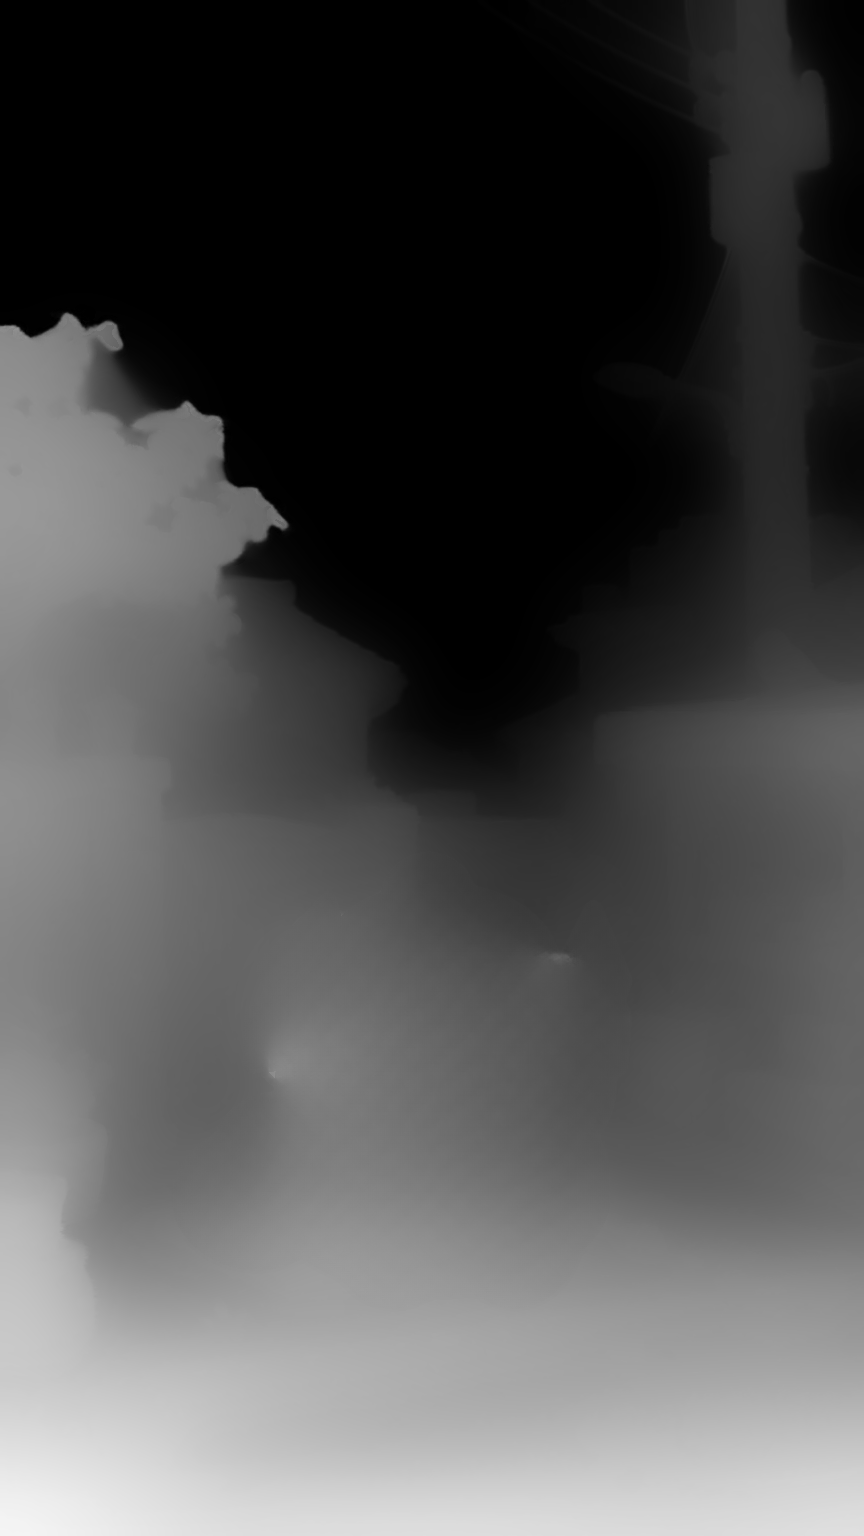
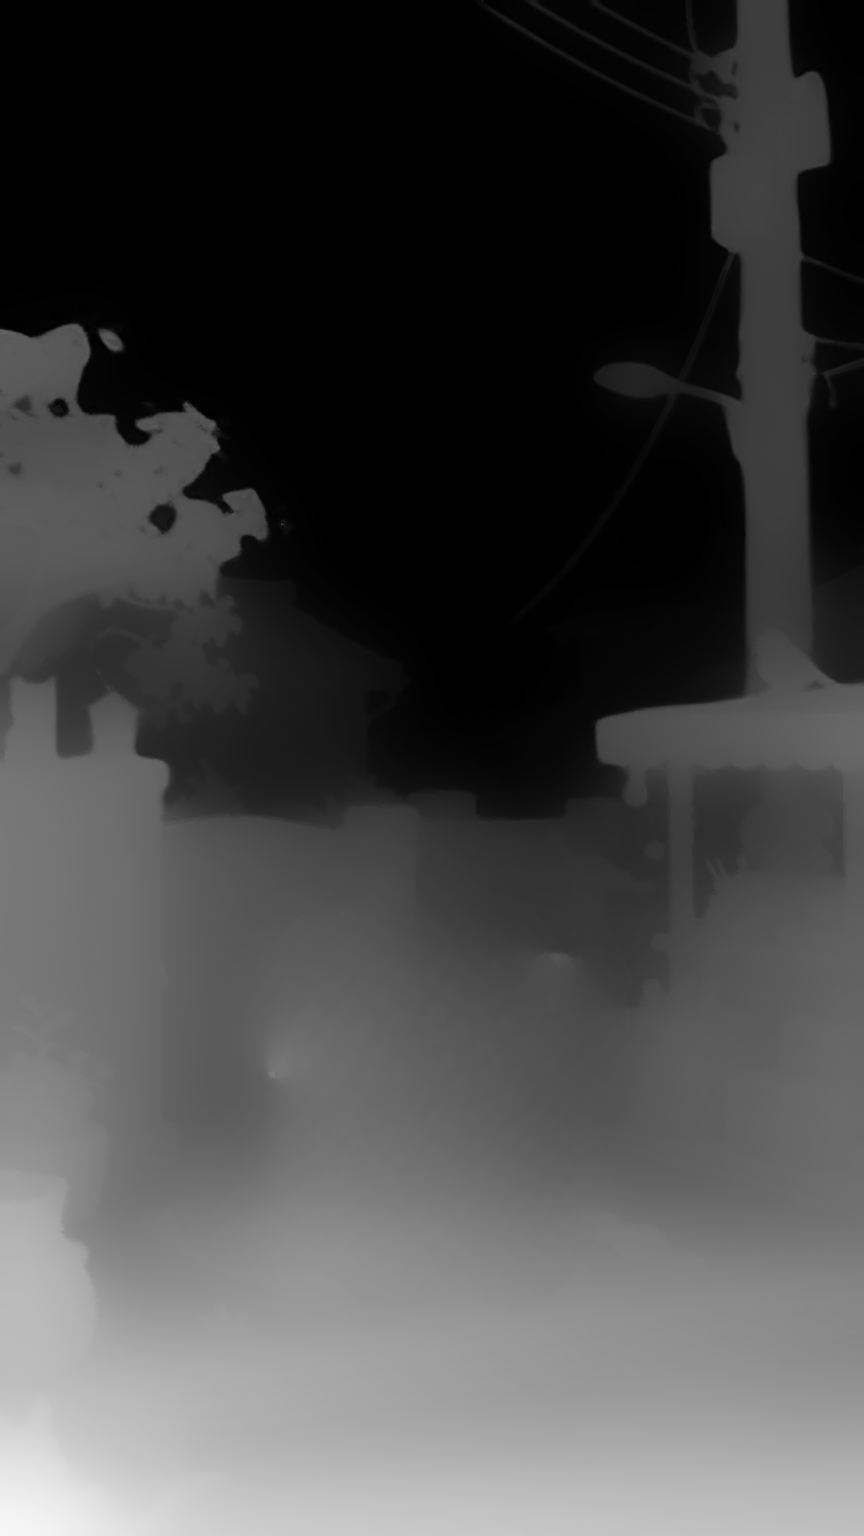
lab1: upgrade depth to Depth Anything V2 Large (fp16)
Base depth rendered the scooter/stall as a blurry blob (-> warp, no separation) and
merged the power lines. Large resolves them: crisp wire lines, real object structure,
accurate midground. Rebuild lab1 on Large depth -> the scooter now translates rigidly
and layers separate cleanly. make_scene.sh switched to Large for all new scenes.

diff --git a/index.html b/index.html
@@ -11,7 +11,7 @@
     <meta name="apple-mobile-web-app-title" content="Cat Lock" />
     <meta name="apple-mobile-web-app-status-bar-style" content="black-translucent" />
     <link rel="manifest" href="./manifest.webmanifest" />
-    <link rel="stylesheet" href="./style.css?v=mesh-30" />
+    <link rel="stylesheet" href="./style.css?v=mesh-31" />
     <title>Cat Depth Lock</title>
     <script type="importmap">
       {
@@ -55,6 +55,6 @@
     </main>
 
     <script src="https://unpkg.com/lucide@0.468.0/dist/umd/lucide.min.js" defer></script>
-    <script type="module" src="./app.js?v=mesh-30"></script>
+    <script type="module" src="./app.js?v=mesh-31"></script>
   </body>
 </html>
